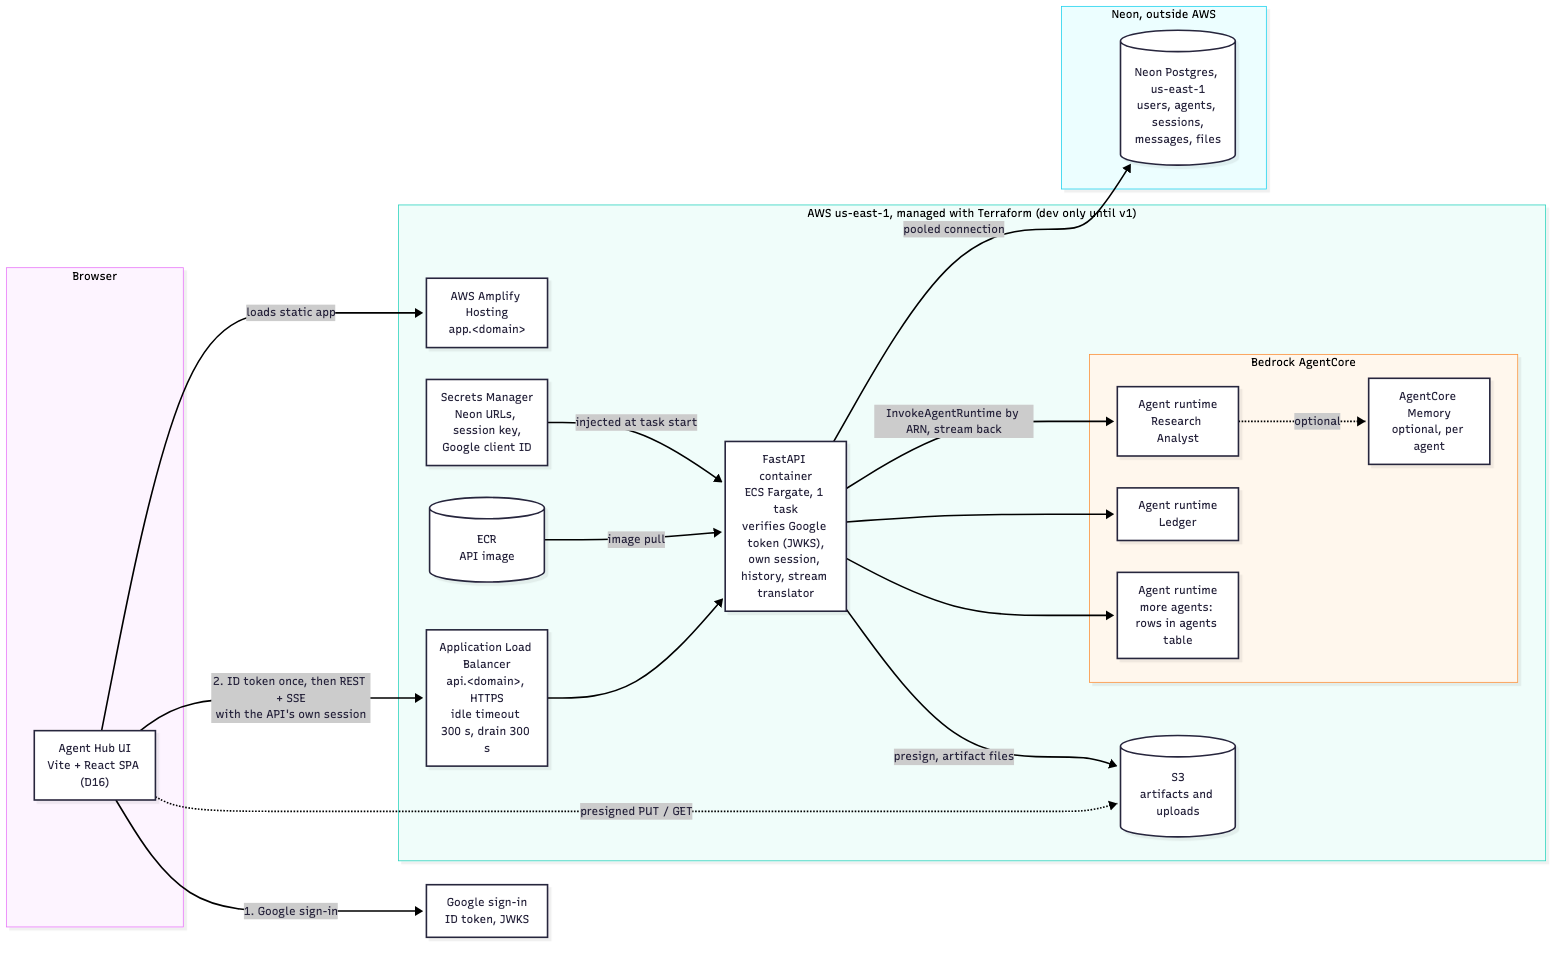
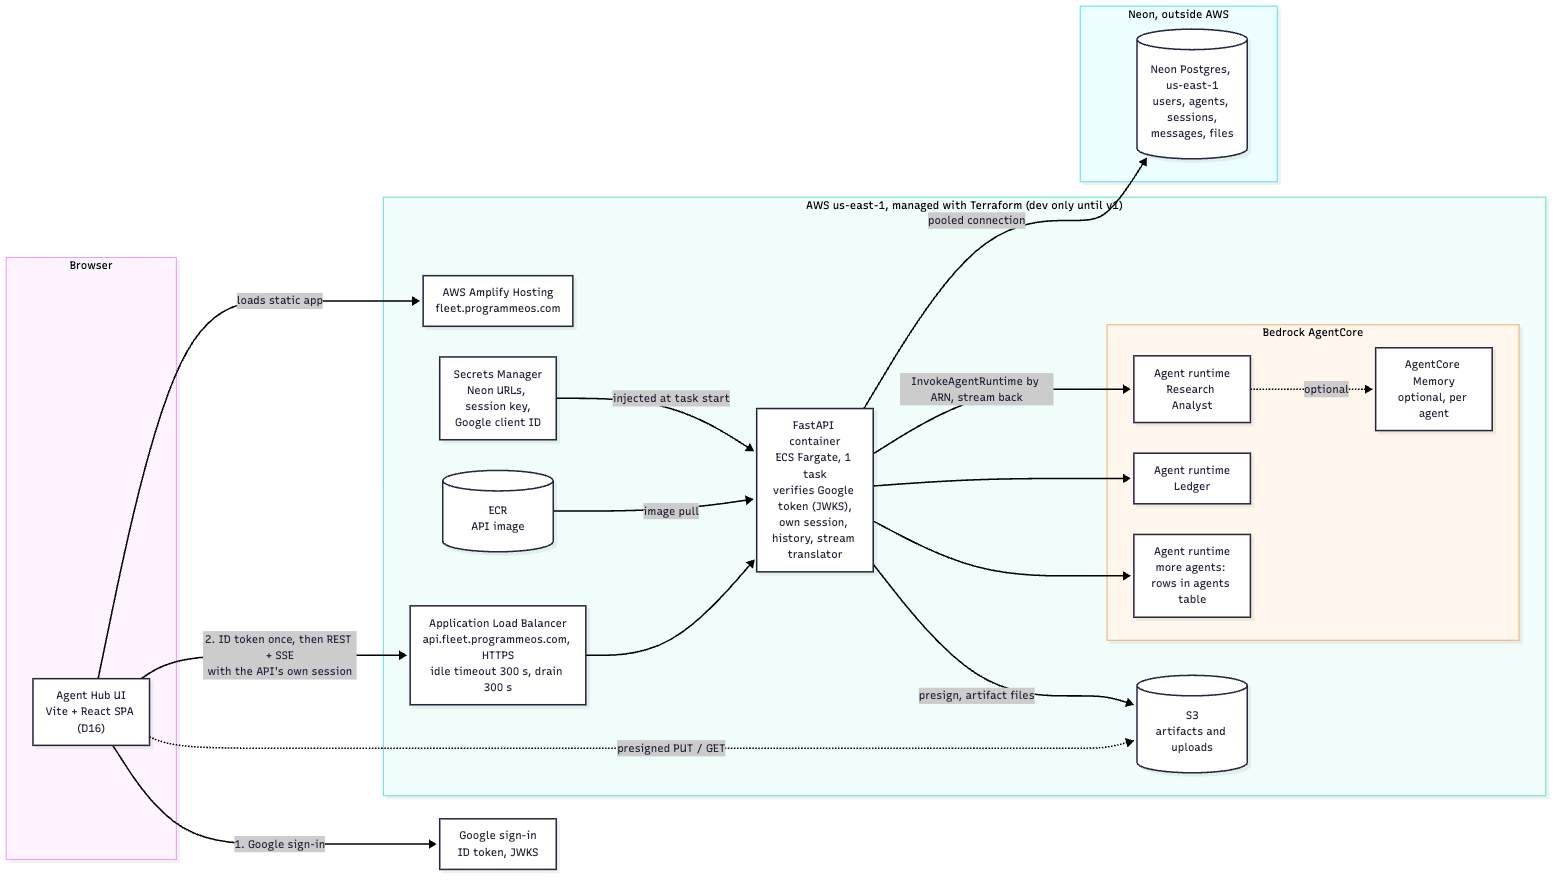
Record domain (D25) and networking answers
Q2: the app is fleet.programmeos.com and the API api.fleet.programmeos.com;
only the fleet subdomain is delegated from GoDaddy DNS to a Route 53 zone.
Checked: DNS at GoDaddy, no CAA records, fleet unused. The refresh cookie
is now host-only. Placeholders replaced in docs, diagrams and the spec.

Q3: public subnets, ALB-only inbound, no NAT gateway (ARCHITECTURE §2).
Q10: account exists; access is set up at step 7.

diff --git a/docs/ARCHITECTURE.md b/docs/ARCHITECTURE.md
@@ -2,7 +2,7 @@
 
 | | |
 |---|---|
-| Status | v0.4, D1–D24 and P1–P8 locked; §2 default and §4 questions still open |
+| Status | v0.4, D1–D25 and P1–P8 locked; §4 questions still open |
 | Date | 2026-09-29 |
 | Owner | Israel B. (approver) |
 | Scope | Back end, infrastructure, auth, data and the agent stream. Product scope stays in `PRODUCT_PLAN.md`. |
@@ -68,7 +68,7 @@ Each entry: the decision, why, and what would make us revisit it.
 ### D8. Auth: Google sign-in, then the API's own session
 **Decision.** The browser gets a Google ID token (Google Identity Services) and posts it once to `POST /v1/auth/google`. The API verifies signature (Google JWKS), `aud` (our client ID), `iss`, `exp` and `email_verified`, looks the user up by Google `sub`, and rejects unknown or inactive users. It then issues:
 - a short-lived **access token** (JWT, ~15 min, signed with the session key from Secrets Manager), held in memory by the client and sent as `Authorization: Bearer`;
-- a rotating **refresh token** (random, stored hashed in `refresh_tokens`) in a cookie: `HttpOnly; Secure; SameSite=Strict; Domain=api.<domain>; Path=/v1/auth` (all routes live under `/v1`, D23).
+- a rotating **refresh token** (random, stored hashed in `refresh_tokens`) in a cookie: `HttpOnly; Secure; SameSite=Strict; Path=/v1/auth`, host-only (no `Domain` attribute), so it goes only to `api.fleet.programmeos.com` (D25) (all routes live under `/v1`, D23).
 Refresh rotates the token and detects reuse (reuse of an old token revokes the whole family). App (`app.`) and API (`api.`) share a parent domain, so the cookie is same-site; CORS allows only the app origin with credentials, and `/v1/auth/*` also checks `Origin`.
 **Why.** No Cognito to operate; Google does the hard part; our own session gives revocation and short token lifetime.
 **Revisit if.** We need non-Google sign-in, SSO, or passkey step-up (P2).
@@ -98,7 +98,7 @@ Refresh rotates the token and detects reuse (reuse of an old token revokes the w
 Compute, S3, AgentCore, Secrets Manager, Amplify and Neon all in us-east-1. **Revisit if** a model or AgentCore feature we need isn't there.
 
 ### D13. Front-end hosting: AWS Amplify Hosting
-**Decision.** Amplify Hosting serves the web app on `app.<domain>`, same parent domain as the API.
+**Decision.** Amplify Hosting serves the web app on `fleet.programmeos.com`, same parent domain as the API (D25).
 **Why.** Managed builds, previews per branch, TLS, custom domain.
 **Revisit if.** We choose a server-rendered framework Amplify handles poorly (not expected: the front end is a static SPA, D16), or cost/control push us to S3 + CloudFront.
 
@@ -157,11 +157,21 @@ Compute, S3, AgentCore, Secrets Manager, Amplify and Neon all in us-east-1. **Re
 **Why.** The simplest layout that keeps "adding an agent touches only `agents/`" checkable in a pull request, and keeps each part deployable on its own.
 **Revisit if.** A second TypeScript package appears (then npm workspaces), or the contract gains another consumer (then move it to a top-level `contract/`).
 
+### D25. Domain: `fleet.programmeos.com`, delegated to Route 53
+**Decision (owner, 2026-09-29, Q2).** The owner's domain `programmeos.com` stays registered and hosted at GoDaddy. Only the subdomain `fleet.programmeos.com` is delegated to a Route 53 hosted zone (Terraform), by four `NS` records named `fleet` that the owner adds in GoDaddy DNS.
+- Web app (Amplify): `https://fleet.programmeos.com`; share links `https://fleet.programmeos.com/s/<slug>`.
+- API (ALB): `https://api.fleet.programmeos.com`.
+- Certificates: ACM in us-east-1, validated through DNS records in the delegated zone. Amplify manages its own certificate for the app.
+- Google OAuth authorised JavaScript origin: `https://fleet.programmeos.com`; CORS allows only that origin.
+- Checked 2026-09-29: DNS is at GoDaddy (`ns61/62.domaincontrol.com`), no CAA records (nothing blocks Amazon certificates), and `fleet` isn't in use.
+**Why.** Owning the domain gives the ALB a certificate and puts app and API on one site, which the `SameSite=Strict` refresh cookie needs (D8). Delegating one subdomain leaves the rest of the domain untouched and costs only the hosted zone ($0.50/month).
+**Revisit if.** The app moves to its own domain: change one Terraform variable, the Google OAuth origin and the CORS origin.
+
 ---
 
-## 2. Unconfirmed defaults (do not build on these until confirmed; see Q3)
+## 2. Networking (confirmed by the owner, 2026-09-29, Q3)
 
-| Default | Why it's the default | Cost of the alternative |
+| Decision | Why | Cost of the alternative |
 |---|---|---|
 | Fargate tasks in **public subnets** with public IPs; security group allows inbound only from the ALB; **no NAT gateway** | The task must reach Neon, Google, AgentCore, Secrets Manager and ECR over the internet anyway; a NAT gateway is ~$33/month per AZ before data | Private subnets + NAT or VPC endpoints: more cost, no real gain while Neon is public |
 
@@ -187,19 +197,18 @@ These refine D1–D15 and are binding for the steps that follow.
 
 ## 4. Open questions (answers pending)
 
-Answered 2026-09-29: Q1 → D16 (Vite SPA), Q4 → D17 (dev only), Q5 → D11 (let the agent finish), Q6 → D18 (API sends history; AgentCore Memory later), Q7 → §3 (P1–P8 accepted). Still open:
+Answered 2026-09-29: Q2 → D25 (`fleet.programmeos.com`), Q3 → §2 (public subnets, no NAT), Q1 → D16 (Vite SPA), Q4 → D17 (dev only), Q5 → D11 (let the agent finish), Q6 → D18 (API sends history; AgentCore Memory later), Q7 → §3 (P1–P8 accepted). Still open:
 
 | # | Question | Blocks | My default |
 |---|---|---|---|
-| Q2 | **Domain.** Which parent domain, is it in Route 53, and who issues TLS (ACM in us-east-1)? | ALB listener, Amplify custom domain, cookie domain, Google OAuth origins | Subdomains of your portfolio domain, ACM certificates, Route 53 if already there |
-| Q3 | **Networking.** Accept public subnets, public IP, ALB-only inbound, no NAT? | Step 7 | Yes |
+| ~~Q2~~ | **Answered → D25.** ~~Domain.~~ Which parent domain, is it in Route 53, and who issues TLS (ACM in us-east-1)? | ALB listener, Amplify custom domain, cookie domain, Google OAuth origins | Subdomains of your portfolio domain, ACM certificates, Route 53 if already there |
 | Q8 | **Budget.** Is the $50/month AWS ceiling in the plan still right, excluding model tokens? | Task size, alarms | Yes |
 | Q9 | **First real agent for step 8.** Research Analyst (the plan's pick), or an agent you already have deployed on AgentCore? An existing one is faster. Is there one, and can the API's IAM role invoke it? | Step 8 | An existing deployed agent, if any |
 | Q10 | **AWS account.** Is there a dedicated account (or at least credentials profile) for Agent Hub, and may I run read-only AWS CLI and `terraform plan` against it? | Step 7 | Ask again at step 7 |
 
 ## 5. Open items (known, not yet decided)
 
-- Domain and TLS certificate (Q2).
+- The four `NS` records for `fleet` in GoDaddy DNS, added by the owner once Terraform creates the hosted zone (D25).
 - Google OAuth client: created by hand in Google Cloud console. Needs the app origin as an authorised JavaScript origin.
 - Terraform state bucket: bootstrapped first, by a separate minimal config.
 - Neon: created by hand; its pooled and direct connection strings go into Secrets Manager.
@@ -232,3 +241,5 @@ Answered 2026-09-29: Q1 → D16 (Vite SPA), Q4 → D17 (dev only), Q5 → D11 (l
 | 2026-09-29 | v0.4, alignment review (build step 4b): D19 approval pause, D20 attachments to agents, D21 session titles, D22 polling for cross-session activity, D23 API conventions; D7 key prefix; D8 cookie path `/v1/auth`; D11, P1, P3, P4 amended for two tasks during deploys and Retry after Stop; D18 payload gains `attachments`. Migration `0002`. |
 | 2026-09-29 | OpenAPI 3.1 spec (step 5): `api/openapi.yaml`. Stream events fixed as `run.started`, `block.started/delta/updated/completed`, `artifact.delta`, and the terminal `run.completed`, `run.awaiting_approval`, `run.stopped`, `run.failed`. |
 | 2026-09-29 | Repo layout (step 6): D24. Root `README.md` maps the repo; root `Makefile` for common commands. |
+| 2026-09-29 | Q3 answered: public subnets, ALB-only inbound, no NAT gateway (§2 confirmed). Q10: account exists; the owner sets up access at step 7. |
+| 2026-09-29 | Q2 answered: D25, `fleet.programmeos.com` (app) and `api.fleet.programmeos.com` (API), subdomain delegated from GoDaddy to Route 53; refresh cookie made host-only. |

diff --git a/docs/PRODUCT_PLAN.md b/docs/PRODUCT_PLAN.md
@@ -408,4 +408,4 @@ The design shows Research Analyst as "LangGraph · Lambda". I recommend Strands 
 | 7 | **Data retention:** keep sessions forever? Hard-delete after the undo window, or soft-delete for 30 days? | Data model, delete semantics, export | Hard delete after 10 s undo. Attachments deleted with their session. |
 | 8 | **Visual direction:** keep the warm editorial look, or did "Apple-style" mean a different visual language? | Token cleanup in M0 | Keep the current direction. |
 | 9 | **Is the pen.dev share link newer than the repo copy?** | Critique accuracy, design fix pass | The repo copy is the latest. |
-| 10 | **Name and domain:** is "Agent Hub" final? Custom domain for share links? | Share link URLs (P1), portfolio branding | "Agent Hub" on a subdomain of your portfolio domain. |
+| 10 | **Name and domain:** is "Agent Hub" final? Custom domain for share links? **Domain answered 2026-09-29: `fleet.programmeos.com` (ARCHITECTURE D25).** | Share link URLs (P1), portfolio branding | "Agent Hub" on a subdomain of your portfolio domain. |

diff --git a/docs/BUILD_PLAN.md b/docs/BUILD_PLAN.md
@@ -43,11 +43,9 @@ The ordered steps for building Agent Hub, their status, and how we work. Start a
 
 Kept current in [`ARCHITECTURE.md` §4](ARCHITECTURE.md#4-open-questions-answers-pending). As of 2026-09-29 these are still open:
 
-- **Q2 Domain:** which parent domain; is it in Route 53; certificates from ACM? (Needed by step 7.)
-- **Q3 Networking:** public subnets with public IPs, inbound from the ALB only, no NAT gateway? (Step 7.)
 - **Q8 Budget:** is $50/month AWS (excluding model tokens) still the ceiling?
 - **Q9 First agent:** is there an agent already deployed on AgentCore to use in step 8?
-- **Q10 AWS account:** which account or CLI profile; may read-only commands and `terraform plan` run against it? (Step 7.)
+- **Q10 AWS account:** the account exists; the owner will set up access and say when (step 7).
 
 ## Where things are
 
